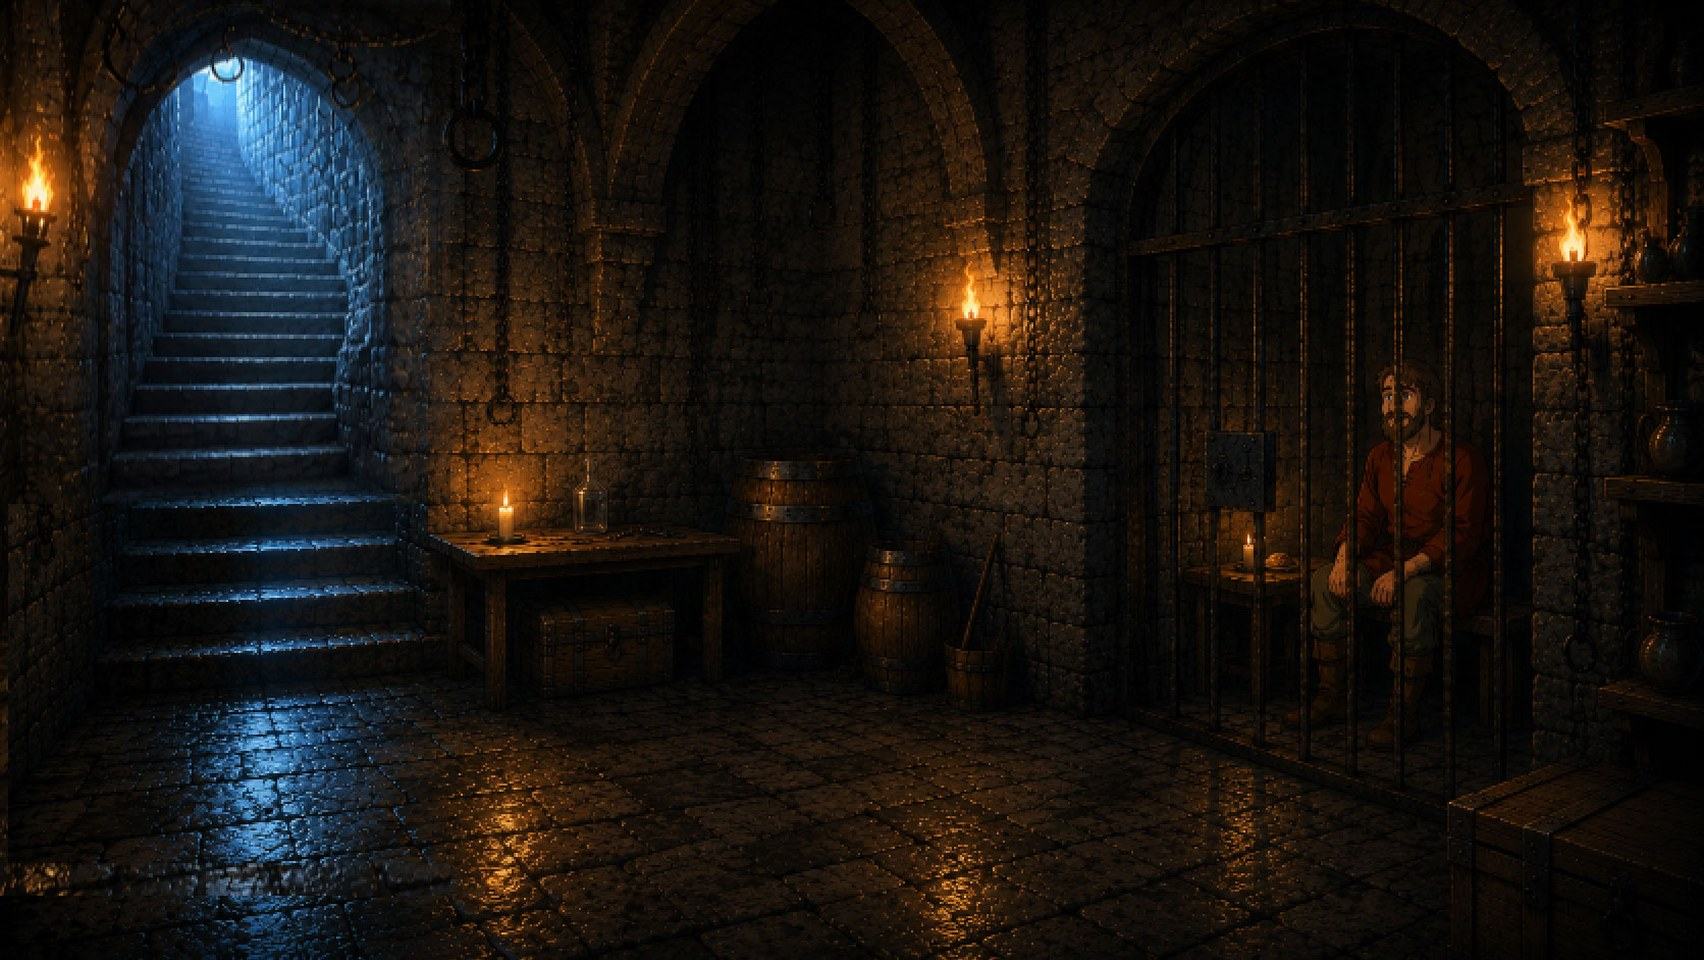
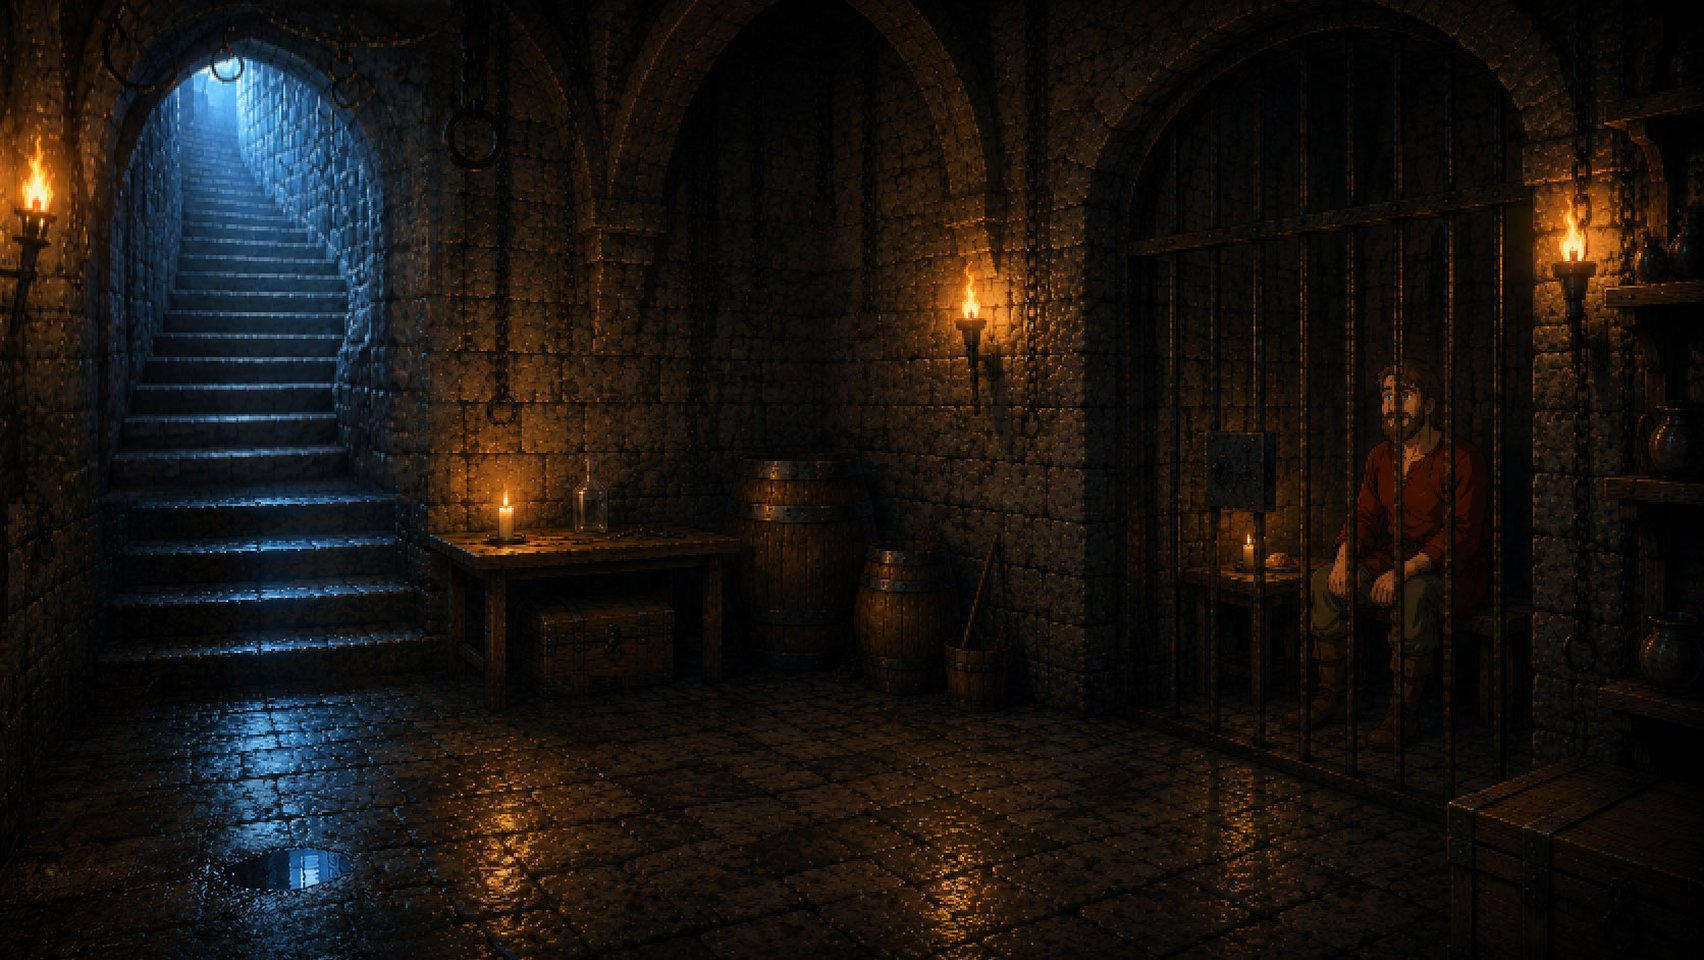
Deel 2: nieuwe kerker-achtergrond (gevangenis-ravenholt-2) + glinsterend plasje en mooiere dansende wondernoot-bloem

Changed region(s): [[0.0622, 0.8125, 0.2177, 1.0], [0.2488, 0.9062, 0.2799, 0.9375], [0.0, 0.9062, 0.0311, 0.9375]]

diff --git a/games/ravenholt-deel2/js/engine.js b/games/ravenholt-deel2/js/engine.js
@@ -1626,27 +1626,81 @@
         fctx.beginPath(); fctx.ellipse(p.x, p.y, rr * 1.6, rr * 0.5, 0, 0, Math.PI * 2); fctx.stroke();
       }
       if (state.flags.plantDancing) {
-        const sway = Math.sin(now / 260) * 5;            // vrolijk heen en weer
-        const bop = Math.abs(Math.sin(now / 260)) * 2;   // huppeltje
-        const H2 = 26;
-        fctx.strokeStyle = '#4f8f3a'; fctx.lineWidth = 2;
+        const sway = Math.sin(now / 300) * 6;            // vrolijk zwieren
+        const bop = Math.abs(Math.sin(now / 300)) * 2.5; // huppeltje
+        const H2 = 34;
+        const hx = p.x + sway, hy = p.y - H2 - bop;      // bloemkop
+        /* zachte toverachtige gloed achter de bloem */
+        const glow = fctx.createRadialGradient(hx, hy, 1, hx, hy, 14);
+        const ga = 0.12 + 0.06 * Math.sin(now / 400);
+        glow.addColorStop(0, `rgba(255,190,230,${ga.toFixed(3)})`);
+        glow.addColorStop(1, 'rgba(255,190,230,0)');
+        fctx.fillStyle = glow; fctx.fillRect(hx - 14, hy - 14, 28, 28);
+        /* stengel als sierlijke boog, iets dikker onderaan */
+        fctx.strokeStyle = '#3f7a2e'; fctx.lineWidth = 3;
         fctx.beginPath(); fctx.moveTo(p.x, p.y);
-        fctx.quadraticCurveTo(p.x + sway * 0.4, p.y - H2 * 0.6, p.x + sway, p.y - H2 - bop);
+        fctx.quadraticCurveTo(p.x + sway * 0.3, p.y - H2 * 0.55, hx, hy + 4);
         fctx.stroke();
-        fctx.fillStyle = '#5da24e';                      // blaadjes
-        fctx.fillRect(Math.round(p.x - 3 + sway * 0.3), p.y - 12, 3, 2);
-        fctx.fillRect(Math.round(p.x + 1 + sway * 0.5), p.y - 17, 3, 2);
-        const hx = p.x + sway, hy = p.y - H2 - bop;      // bloemkop draait vrolijk rond
-        fctx.fillStyle = '#ff9fc2';
-        for (let i = 0; i < 5; i++) {
-          const a = now / 700 + i * (Math.PI * 2 / 5);
-          fctx.fillRect(Math.round(hx + Math.cos(a) * 3.4) - 1, Math.round(hy + Math.sin(a) * 3.4) - 1, 2, 2);
+        fctx.strokeStyle = '#5da24e'; fctx.lineWidth = 1.4;
+        fctx.beginPath(); fctx.moveTo(p.x, p.y - 1);
+        fctx.quadraticCurveTo(p.x + sway * 0.3, p.y - H2 * 0.55, hx, hy + 4);
+        fctx.stroke();
+        /* twee wapperende blaadjes */
+        for (const [ly, dir] of [[12, -1], [20, 1]]) {
+          const flap = Math.sin(now / 300 + dir) * 0.5 + (dir > 0 ? 0.4 : -0.4);
+          const bx = p.x + sway * (ly / H2) * 0.5, by = p.y - ly;
+          fctx.fillStyle = '#5da24e';
+          fctx.beginPath();
+          fctx.ellipse(bx + dir * 4, by, 4.6, 2, flap, 0, Math.PI * 2);
+          fctx.fill();
+          fctx.fillStyle = '#7cc264';
+          fctx.beginPath();
+          fctx.ellipse(bx + dir * 4.5, by - 0.5, 2.4, 1, flap, 0, Math.PI * 2);
+          fctx.fill();
         }
-        fctx.fillStyle = '#ffd36b'; fctx.fillRect(Math.round(hx) - 1, Math.round(hy) - 1, 3, 3);
-        for (let i = 0; i < 3; i++) {
+        /* bloem: buitenste roze blaadjes + binnenring wit + gouden hart, draait mee op de maat */
+        for (let i = 0; i < 6; i++) {
+          const a = now / 650 + i * (Math.PI * 2 / 6);
+          const px3 = hx + Math.cos(a) * 4.6, py3 = hy + Math.sin(a) * 4.6;
+          fctx.fillStyle = '#ff8fb8';
+          fctx.beginPath(); fctx.ellipse(px3, py3, 2.6, 1.7, a, 0, Math.PI * 2); fctx.fill();
+          fctx.fillStyle = '#ffc2d9';
+          fctx.beginPath(); fctx.ellipse(px3, py3, 1.3, 0.8, a, 0, Math.PI * 2); fctx.fill();
+        }
+        for (let i = 0; i < 6; i++) {                    // witte binnenring
+          const a = -now / 650 + i * (Math.PI * 2 / 6) + 0.5;
+          fctx.fillStyle = 'rgba(255,245,255,0.9)';
+          fctx.fillRect(Math.round(hx + Math.cos(a) * 2.2) - 1, Math.round(hy + Math.sin(a) * 2.2) - 1, 1.6, 1.6);
+        }
+        fctx.fillStyle = '#ffd36b'; fctx.beginPath(); fctx.arc(hx, hy, 1.9, 0, Math.PI * 2); fctx.fill();
+        fctx.fillStyle = '#fff0c0'; fctx.fillRect(Math.round(hx) - 1, Math.round(hy) - 1, 1, 1);
+        /* dwarrelende sparkles + een dansend muzieknootje */
+        for (let i = 0; i < 4; i++) {
           const a2 = 0.3 + 0.5 * (0.5 + 0.5 * Math.sin(now / 380 + i * 2.2));
-          twinkle(hx + Math.sin(now / (500 + i * 130) + i) * 8, hy - 4 - i * 4, a2, '255,220,150');
+          twinkle(hx + Math.sin(now / (460 + i * 120) + i * 1.7) * 10, hy - 5 - ((now / 40 + i * 9) % 18), a2, i % 2 ? '255,220,150' : '255,190,230');
         }
+        const na = 0.35 + 0.35 * Math.sin(now / 350);
+        fctx.font = '8px Georgia, serif'; fctx.textAlign = 'center'; fctx.textBaseline = 'middle';
+        fctx.fillStyle = `rgba(200,235,255,${Math.max(0, na).toFixed(3)})`;
+        fctx.fillText('\u266a', hx + Math.sin(now / 500) * 12, hy - 14 - ((now / 60) % 10));
+      }
+    }
+    /* Glinsterend water: koele blauwe twinkels + een zachte glans die over het plasje glijdt */
+    if (fx.waterGlint) {
+      const wg = fx.waterGlint, ww = wg.w || 26;
+      const sx = wg.x + Math.sin(now / 1600) * ww * 0.4;             // glans schuift langzaam heen en weer
+      const sa = 0.05 + 0.03 * Math.sin(now / 900);
+      const g3 = fctx.createRadialGradient(sx, wg.y, 1, sx, wg.y, ww * 0.55);
+      g3.addColorStop(0, `rgba(150,210,255,${sa.toFixed(3)})`);
+      g3.addColorStop(1, 'rgba(150,210,255,0)');
+      fctx.fillStyle = g3; fctx.fillRect(wg.x - ww, wg.y - 10, ww * 2, 20);
+      for (let i = 0; i < 3; i++) {                                  // kleine blauwe fonkels
+        const ph = now / (700 + i * 260) + i * 2.4;
+        const a = Math.max(0, Math.sin(ph)) * 0.55;
+        if (a < 0.06) continue;
+        const tx = wg.x + Math.sin(i * 4.1 + ((now / 2200) | 0)) * ww * 0.55;
+        const ty = wg.y - 2 + ((i * 7) % 6);
+        twinkle(tx, ty, a, '175,225,255');
       }
     }
     /* Gouden glinster op het celslot (bv. zodra je de gouden sleutel hebt) */

diff --git a/games/ravenholt-deel2/index.html b/games/ravenholt-deel2/index.html
@@ -26,7 +26,7 @@
   <link rel="preconnect" href="https://fonts.googleapis.com">
   <link rel="preconnect" href="https://fonts.gstatic.com" crossorigin>
   <link href="https://fonts.googleapis.com/css2?family=Crimson+Pro:ital,wght@0,400;0,600;1,400&family=Pixelify+Sans:wght@400;600&display=swap" rel="stylesheet">
-  <link rel="stylesheet" href="css/style.css?v=162">
+  <link rel="stylesheet" href="css/style.css?v=163">
   <script type="application/ld+json">
   {
     "@context": "https://schema.org",
@@ -125,7 +125,7 @@
   </div>
 
   <div id="title-screen" class="overlay title">
-    <img class="title-bg" src="assets/art/title.jpg?v=162" alt="Whispers of Ravenholt" onerror="this.remove()">
+    <img class="title-bg" src="assets/art/title.jpg?v=163" alt="Whispers of Ravenholt" onerror="this.remove()">
     <div class="title-content">
       <h1 id="title-h1" hidden><span>Whispers of</span><br><span>Ravenholt</span></h1>
       <p id="title-sub" class="subtitle" hidden>Een point-and-click avontuur</p>
@@ -146,7 +146,7 @@
 
   <div id="win-screen" class="overlay" hidden>
     <div class="overlay-card panel">
-      <img class="win-banner" src="assets/art/win-deel2.jpg?v=162" alt="" onerror="this.remove()">
+      <img class="win-banner" src="assets/art/win-deel2.jpg?v=163" alt="" onerror="this.remove()">
       <h1 id="win-h1">Deel 1 uitgespeeld!</h1>
       <p class="intro" id="winText"></p>
       <button id="replayBtn" class="gold-btn">Opnieuw spelen</button>
@@ -314,10 +314,10 @@
     </div>
   </div>
 
-  <script src="js/sprites.js?v=162"></script>
-  <script src="js/scenes.js?v=162"></script>
-  <script src="js/data.js?v=162"></script>
-  <script src="js/engine.js?v=162"></script>
+  <script src="js/sprites.js?v=163"></script>
+  <script src="js/scenes.js?v=163"></script>
+  <script src="js/data.js?v=163"></script>
+  <script src="js/engine.js?v=163"></script>
   <script>
     if ('serviceWorker' in navigator) {
       window.addEventListener('load', () => {

diff --git a/games/ravenholt-deel2/js/data.js b/games/ravenholt-deel2/js/data.js
@@ -14,7 +14,7 @@ const GAME = {
   title:      { nl: 'Fluisteringen van Ravenholt — Deel 2', en: 'Whispers of Ravenholt — Part 2' },
   titleLines: { nl: ['Fluisteringen', 'van Ravenholt', '· Deel 2 ·'], en: ['Whispers of', 'Ravenholt', '· Part 2 ·'] },
   startScene: 'courtyard',
-  assetVer: '162',
+  assetVer: '163',
 
   /* Finn — vaste figuur: roodharige jongen, blauwe kapmantel, leren tas, houten staf.
      idle = hero, lopen = 4-frame loopsheet (heroWalkSheet), zwaaien = heroWave.
@@ -1008,7 +1008,8 @@ const GAME = {
       overlays: [],
       fx: {
         bookSparkle: { x: 230, y: 206, r: 13, doneFlag: 'gotCellKey' },  // de sleutel glinstert op de wachttafel tot je hem hebt
-        nutPlant:  { x: 88, y: 268 },                                    // wondernoot + dansend plantje in het plasje links
+        nutPlant:  { x: 60, y: 284 },                                    // wondernoot + dansend plantje in het plasje links
+        waterGlint: { x: 60, y: 285, w: 30 },                            // het plasje glinstert blauw
         lockGlint: { x: 432, y: 218, requiresFlag: 'gotCellKey', doneFlag: 'fatherFreed' }   // het celslot glinstert goud
       },
       npcs: [
@@ -1035,8 +1036,8 @@ const GAME = {
         {
           id: 'puddle',
           name: { nl: 'Plasje Water', en: 'Puddle of Water' },
-          rect: { x: 48, y: 250, w: 78, h: 38 },
-          walkTo: { x: 130, y: 268 },
+          rect: { x: 28, y: 264, w: 68, h: 38 },
+          walkTo: { x: 112, y: 274 },
           look: (state) => state.flags.plantDancing
             ? { nl: 'In het plasje zwiert en huppelt het wondernoot-plantje vrolijk in het rond. De wachter kan er zijn ogen niet vanaf houden.', en: 'In the puddle the wonder-nut plant sways and hops merrily. The guard cannot take his eyes off it.' }
             : state.flags.nutInPuddle

diff --git a/games/ravenholt-deel2/sw.js b/games/ravenholt-deel2/sw.js
@@ -4,7 +4,7 @@
    offline beschikbaar wilt hebben (optioneel — niet-vermelde bestanden worden bij
    eerste gebruik alsnog gecachet). */
 
-const CACHE = 'ravenholt2-v162';
+const CACHE = 'ravenholt2-v163';
 
 const PRECACHE = [
   './',
